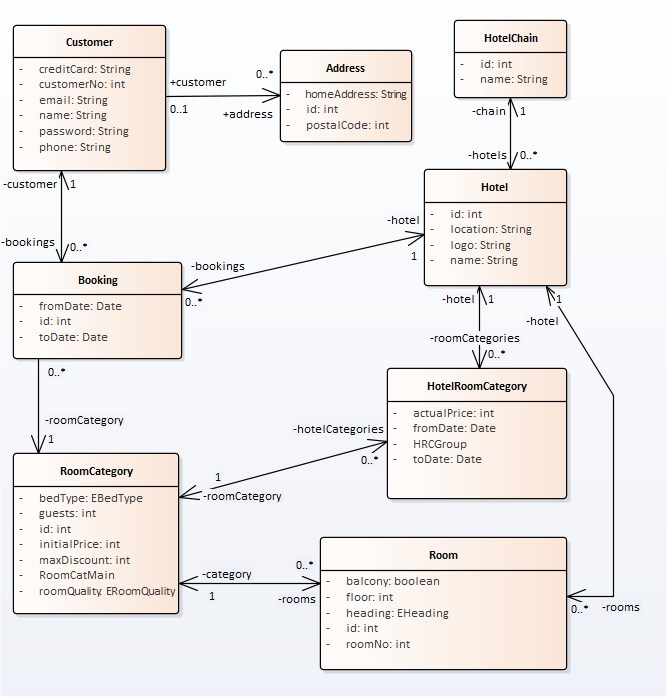
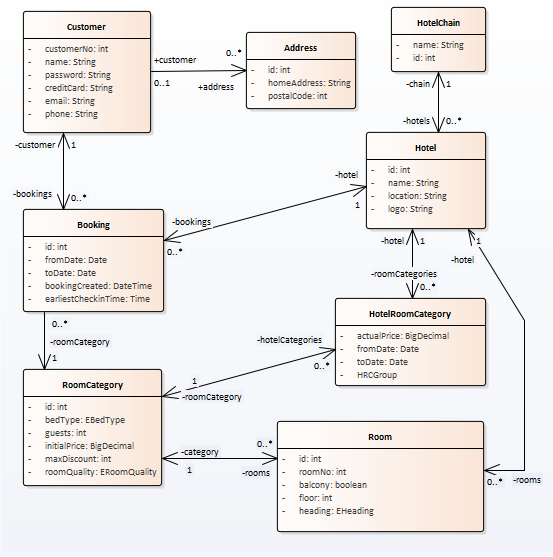
Added Time and Timestamp types with anonymizations

Changed region(s): [[0.0, 0.0, 0.9837, 0.9767]]

diff --git a/README.md b/README.md
@@ -151,7 +151,7 @@ A set of tasks is defined, to see the list, run the **tasks** command:
 		Anonymize_HOTEL (HOTEL - NAME)
 		Anonymize_ADDRESS (ADDRESS - HOMEADDRESS)
 		Anonymize_ROOMCATEGORY (ROOMCATEGORY - ID)
-		Anonymize_BOOKING (BOOKING - FROMDATE ID TODATE)
+		Anonymize_BOOKING (BOOKING - BOOKINGCREATED EARLIESTCHECKINTIME FROMDATE ID TODATE)
 		Anonymize_ROOM (ROOM - ID)
 	ForgetMe
 		Erase_CUSTOMER (CUSTOMER)
